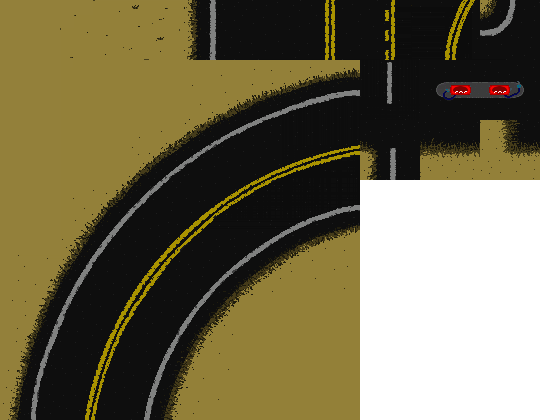
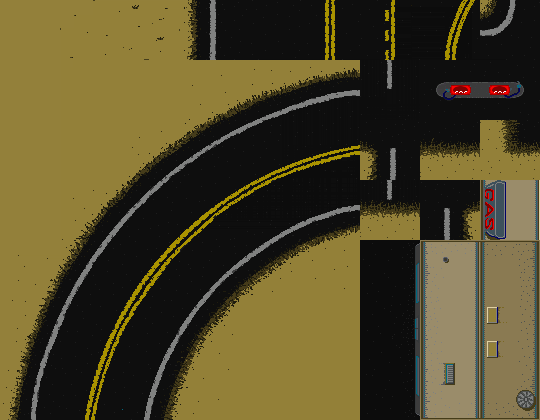
gas station!

Changed region(s): [[0.6519, 0.4024, 1.0, 1.0], [0.7111, 0.2167, 0.7407, 0.2476]]

diff --git a/map.js b/map.js
@@ -373,7 +373,7 @@ define(["game", "gridnode", "World", "progress"], function (game, GridNode, Worl
         progress.increment();
         self.loadMapTiles(chunks.sw, 'sw', {name:'intersection'}, function () {
 	  progress.increment();
-          self.loadMapTiles(chunks.ne, 'ne', {name:'intersection'}, function () {
+          self.loadMapTiles(chunks.ne, 'ne', {name:'gas-station-crossroads'}, function () {
 	    progress.increment();
             self.loadMapTiles(chunks.se, 'se', {name:'intersection'}, function () {
 	      progress.increment();

diff --git a/section_list.js b/section_list.js
@@ -10,5 +10,6 @@ section_list = [
   'NSE_T',
   'NSW_T',
   'NEW_T',
-  'SEW_T'
+  'SEW_T',
+  'gas-station-crossroads'
 ];
